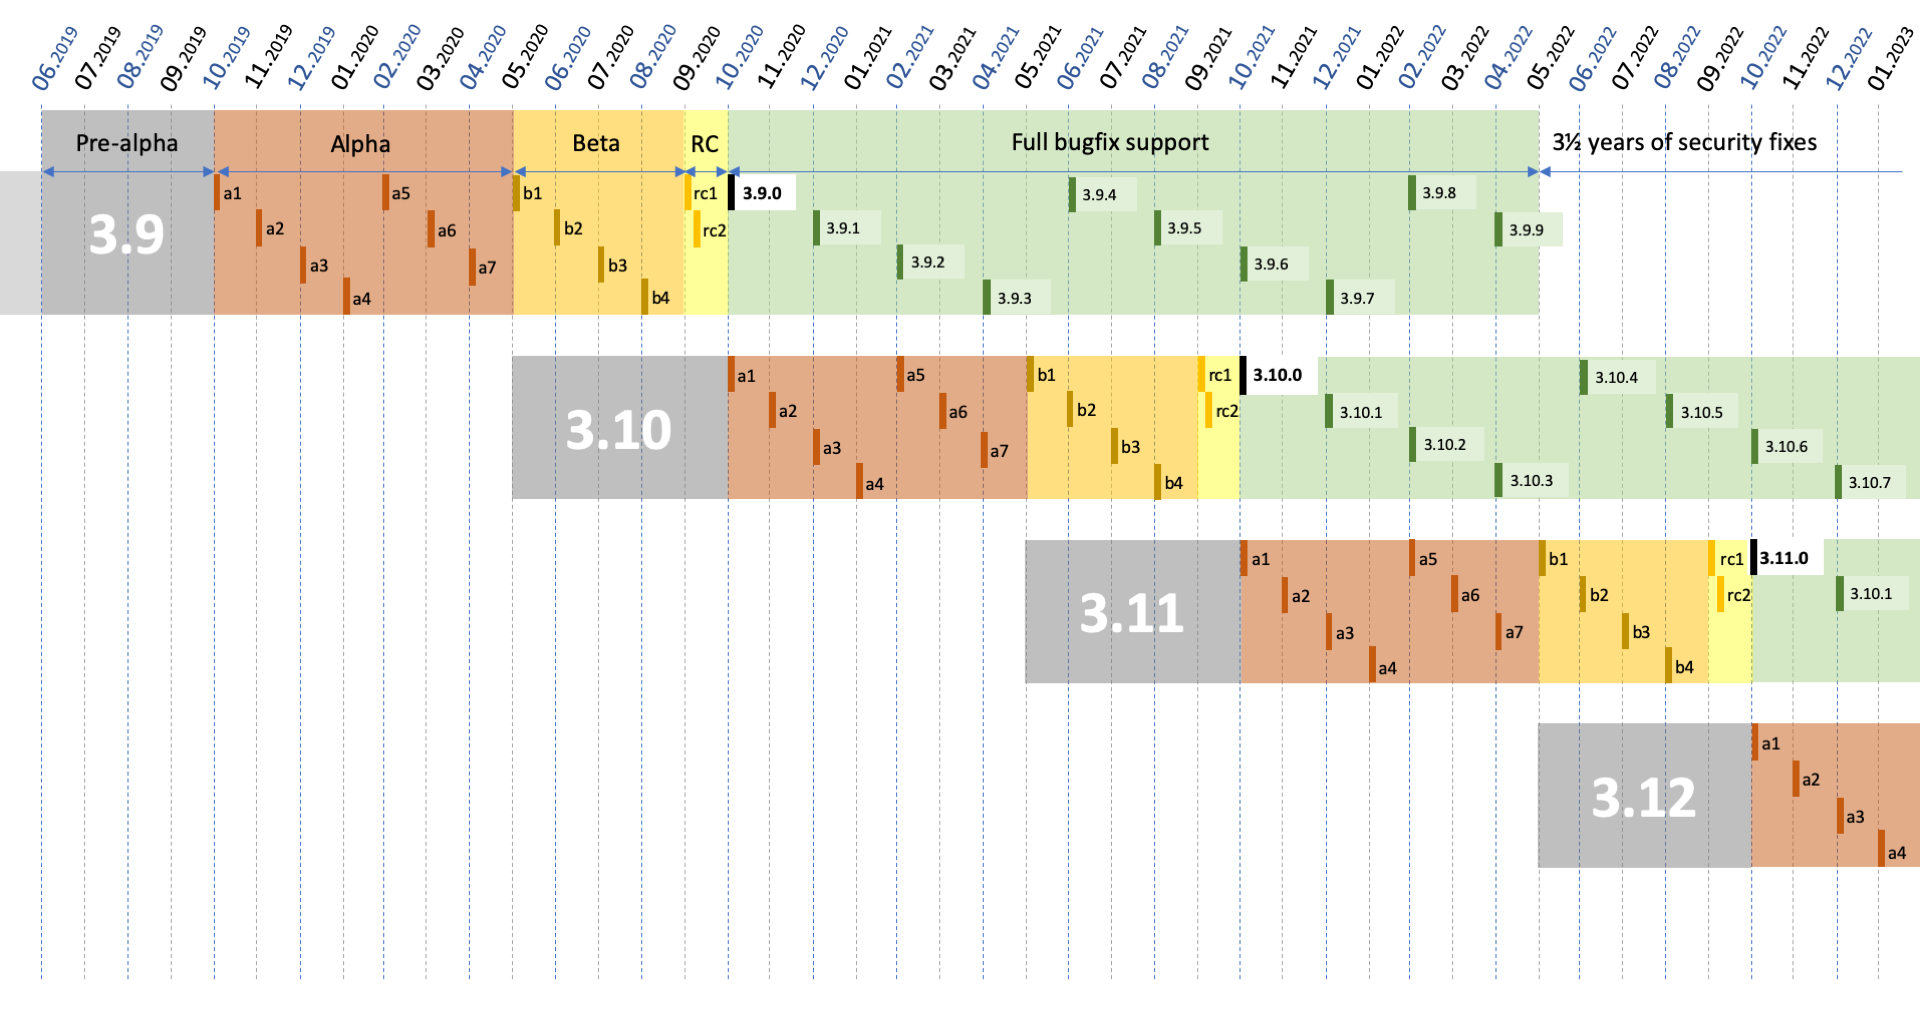
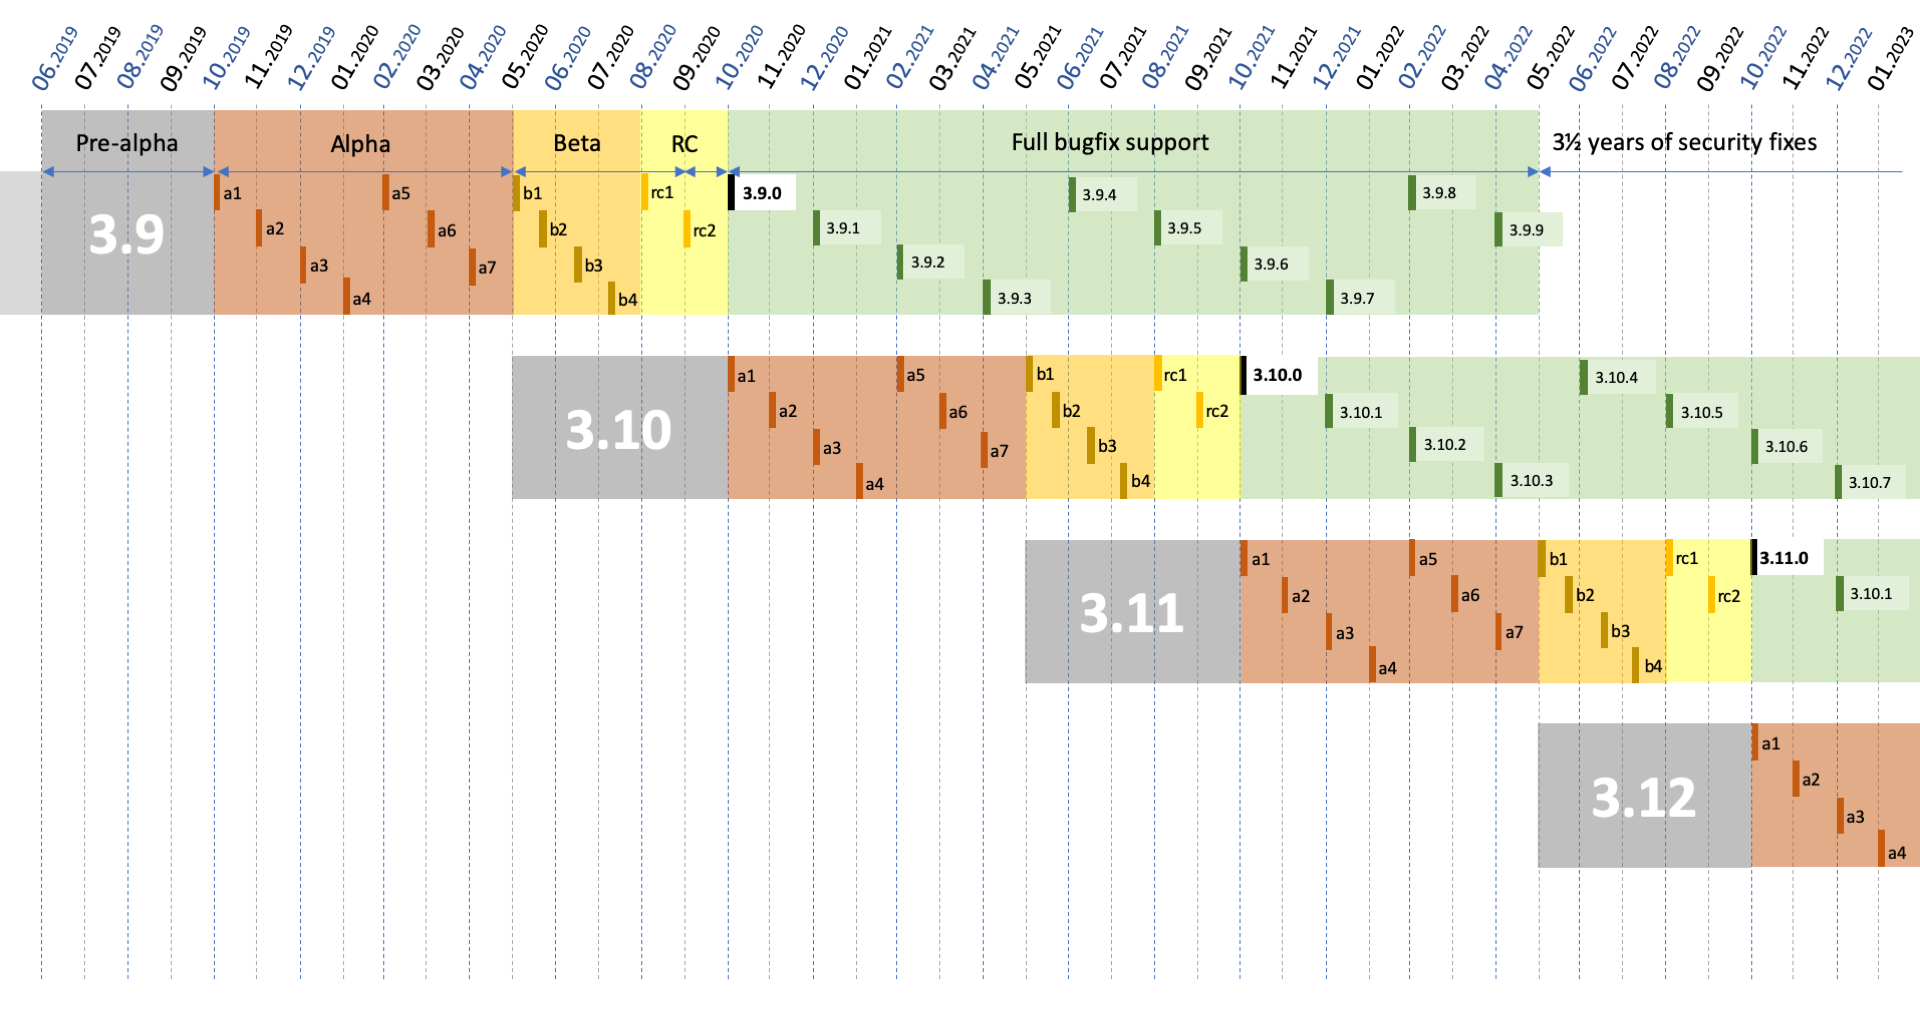
[pep-602] [pep-569] Adjust beta phase
You're welcome Fedora ;-) ...and thanks for all your help!

Changed region(s): [[0.2812, 0.0916, 0.375, 0.3054], [0.8125, 0.5192, 0.9062, 0.6719], [0.5312, 0.336, 0.6562, 0.4887]]

diff --git a/pep-0602.rst b/pep-0602.rst
@@ -36,15 +36,16 @@ This PEP proposes that Python 3.X.0 will be developed for around
 - The next *seven months* are spent on versioned alpha releases where
   both new features are incrementally added and bug fixes are included.
 
-- The following *four months* are spent on versioned beta releases where
-  **no new features** can be added but bug fixes are still included.
+- The following *three months* are spent on four versioned beta releases
+  where **no new features** can be added but bug fixes are still
+  included.
 
-- The *final month* is spent on a release candidate (or more, if
-  necessary) and concludes with the release of the final release of
+- The final *two months* are spent on two release candidates (or more,
+  if necessary) and conclude with the release of the final release of
   Python 3.X.0.
 
-One year of full support, four more years of security fixes
------------------------------------------------------------
+1½ year of full support, 3½ more years of security fixes
+--------------------------------------------------------
 
 After the release of Python 3.X.0, the 3.X series is maintained for
 five years:
@@ -81,11 +82,11 @@ Example
 - 3.9.0 beta 1: Monday, 2020-05-18
   (No new features beyond this point.)
 
-- 3.9.0 beta 2: Monday, 2020-06-15
-- 3.9.0 beta 3: Monday, 2020-07-13
-- 3.9.0 beta 4: Monday, 2020-08-17
-- 3.9.0 candidate 1: Monday, 2020-09-14
-- 3.9.0 candidate 2: Monday, 2020-09-21 (if necessary)
+- 3.9.0 beta 2: Monday, 2020-06-08
+- 3.9.0 beta 3: Monday, 2020-06-29
+- 3.9.0 beta 4: Monday, 2020-07-20
+- 3.9.0 candidate 1: Monday, 2020-08-10
+- 3.9.0 candidate 2: Monday, 2020-09-14
 - 3.9.0 final: Monday, 2020-10-05
 
 .. figure:: pep-0602-example-release-calendar.png
@@ -167,6 +168,12 @@ This change provides the following advantages:
 
 - decreases the urge to rush features shortly before "Beta 1" due to
   the risk of them "slipping for 18 months";
+
+- allows for synchronizing the schedule of Python release management
+  with external distributors like Fedora who've been historically very
+  helpful in finding regressions early not only in core Python but also
+  in third-party libraries, helping moving the community forward to
+  support the latest version of Python from Day 1;
 
 - increases the explicit alpha release phase, which provides meaningful
   snapshots of progress on new features;
@@ -285,8 +292,21 @@ Double the release cadence to achieve 9 months between major versions
 ~~~~~~~~~~~~~~~~~~~~~~~~~~~~~~~~~~~~~~~~~~~~~~~~~~~~~~~~~~~~~~~~~~~~~
 
 This was originally proposed in PEP 596 and rejected as both too
-irregular and too short.  One consequence of a 9 month release cadence
-was shortening of the beta phase and this was considered dangerous.
+irregular and too short.  This would not give any of the benefits of
+a regular release calendar but it would shorten all development phases,
+especially the beta + RC phases.  This was considered dangerous.
+
+Keep "4 betas over 4 months and a final month for the release candidate"
+~~~~~~~~~~~~~~~~~~~~~~~~~~~~~~~~~~~~~~~~~~~~~~~~~~~~~~~~~~~~~~~~~~~~~~~~
+
+While this would make the release calendar a bit cleaner, `it would make
+it very hard for external distributors like Fedora
+<https://discuss.python.org/t/pep-602-annual-release-cycle-for-python/2296/79?u=ambv>`_
+to release the newest version of Python as soon as possible.  We are
+adjusting Python's calendar here in the hope that this will enable
+Fedora to integrate the newest version of Python with the newest version
+of Fedora *as both are being developed* which makes both projects
+better.
 
 Slow down releases but don't freeze feature development with Beta 1
 ~~~~~~~~~~~~~~~~~~~~~~~~~~~~~~~~~~~~~~~~~~~~~~~~~~~~~~~~~~~~~~~~~~~

diff --git a/pep-0596.rst b/pep-0596.rst
@@ -46,21 +46,20 @@ PEP 602.  Suggestions and comments welcome.
 Expected:
 
 - 3.9 development begins: Tuesday, 2019-06-04
-- 3.9.0 alpha 1: Monday, 2019-10-14
-- 3.9.0 alpha 2: Monday, 2019-11-18
-- 3.9.0 alpha 3: Monday, 2019-12-16
-- 3.9.0 alpha 4: Monday, 2020-01-13
-- 3.9.0 alpha 5: Monday, 2020-02-17
-- 3.9.0 alpha 6: Monday, 2020-03-16
-- 3.9.0 alpha 7: Monday, 2020-04-13
+- 3.9.0 alpha 1: Monday, 2019-11-18
+- 3.9.0 alpha 2: Monday, 2019-12-16
+- 3.9.0 alpha 3: Monday, 2020-01-13
+- 3.9.0 alpha 4: Monday, 2020-02-17
+- 3.9.0 alpha 5: Monday, 2020-03-16
+- 3.9.0 alpha 6: Monday, 2020-04-13
 - 3.9.0 beta 1: Monday, 2020-05-18
   (No new features beyond this point.)
 
-- 3.9.0 beta 2: Monday, 2020-06-15
-- 3.9.0 beta 3: Monday, 2020-07-13
-- 3.9.0 beta 4: Monday, 2020-08-17
-- 3.9.0 candidate 1: Monday, 2020-09-14
-- 3.9.0 candidate 2: Monday, 2020-09-21 (if necessary)
+- 3.9.0 beta 2: Monday, 2020-06-08
+- 3.9.0 beta 3: Monday, 2020-06-29
+- 3.9.0 beta 4: Monday, 2020-07-20
+- 3.9.0 candidate 1: Monday, 2020-08-10
+- 3.9.0 candidate 2: Monday, 2020-09-14
 - 3.9.0 final: Monday, 2020-10-05
 
 Subsequent bugfix releases at a monthly cadence.
